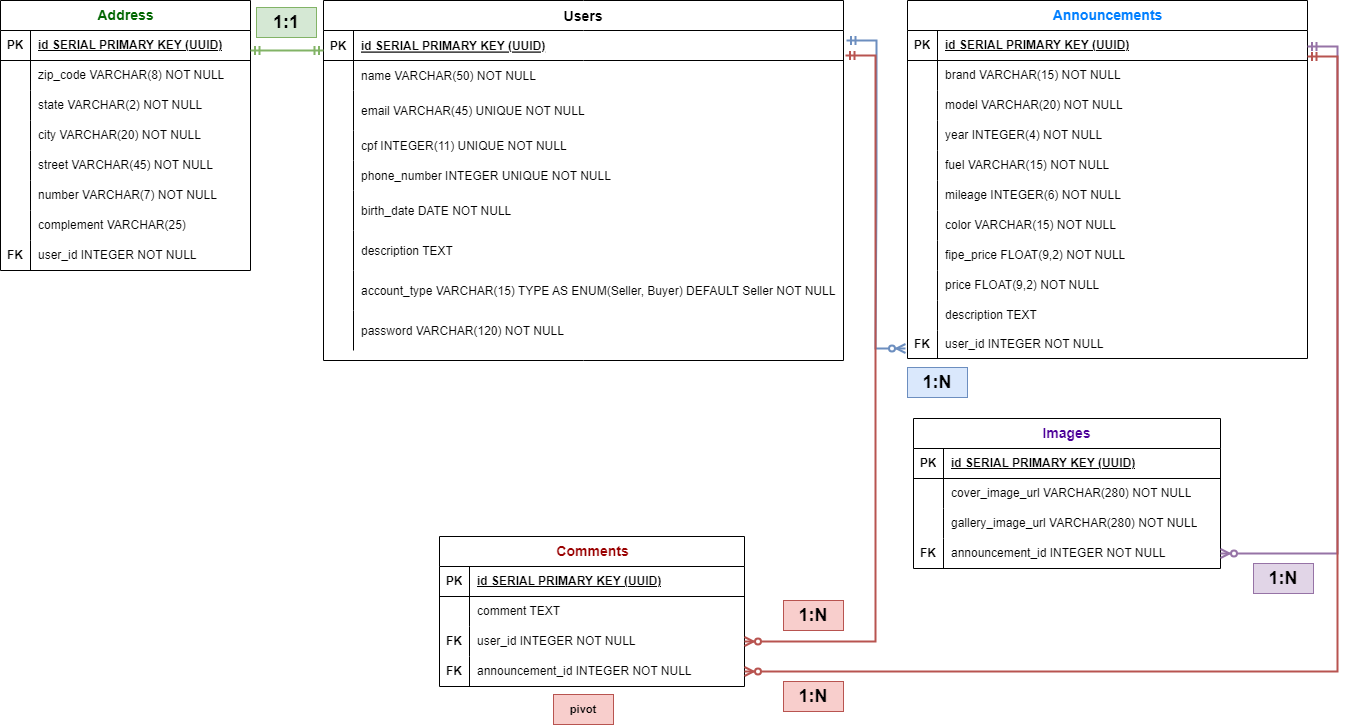
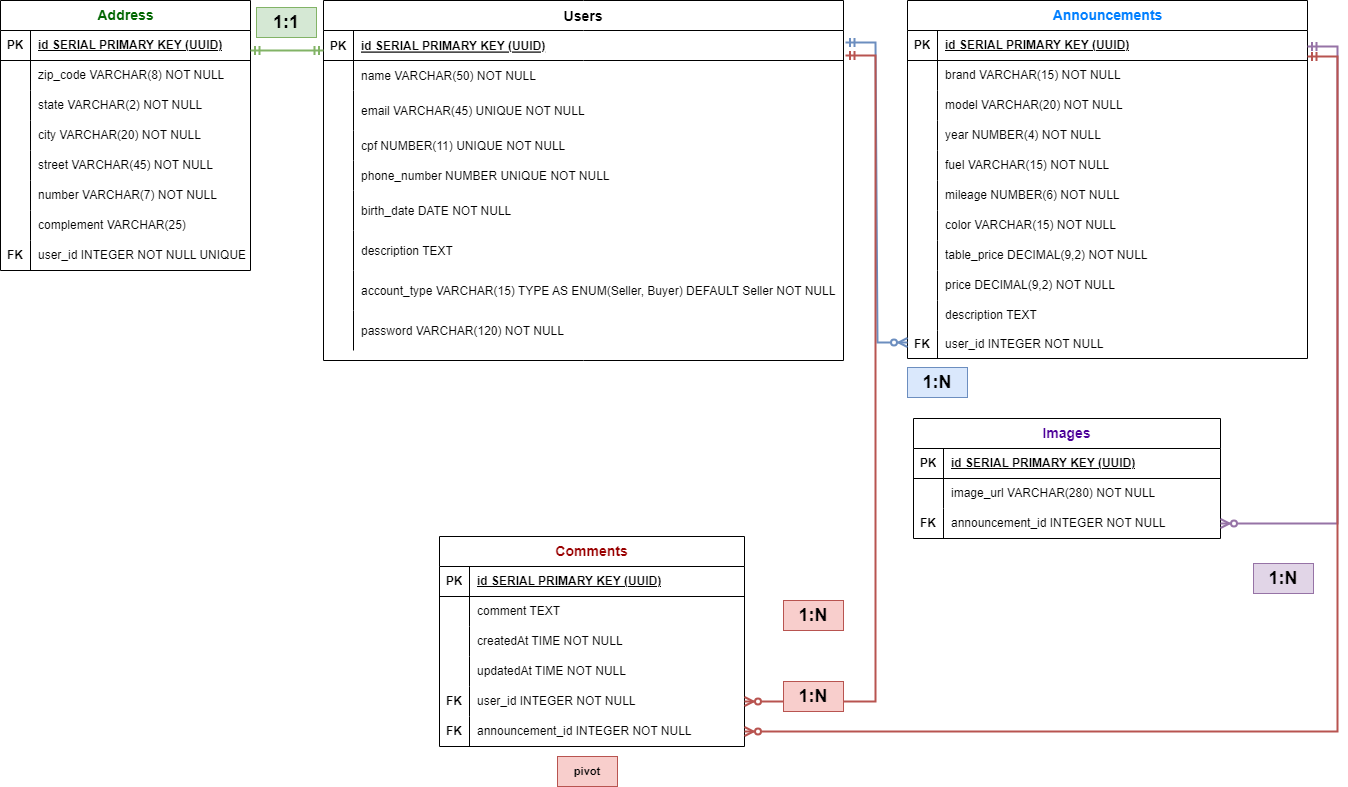
refactor: adjust images entity and der

diff --git a/src/schemas/announcement.schema.ts b/src/schemas/announcement.schema.ts
@@ -1,0 +1,30 @@
+import { z } from 'zod';
+import { userSchema } from './user.schema';
+
+export const announcementSchema = z.object({
+  id: z.number().int().positive(),
+  brand: z.string().max(15),
+  model: z.string().max(20),
+  year: z.number().int().positive().max(4),
+  fuel: z.string().max(15),
+  mileage: z.number().int().positive().max(6),
+  color: z.string().max(15),
+  table_price: z
+    .number()
+    .positive()
+    .default(() => 0)
+    .or(z.string()),
+  price: z
+    .number()
+    .positive()
+    .default(() => 0)
+    .or(z.string()),
+  description: z.string().nullable().nullish(),
+  user: userSchema,
+});
+
+export const announcementCreateSchema = z.object({
+  user_id: z.number().int().positive(),
+});
+
+export const announcementReadSchema = announcementCreateSchema.array();

diff --git a/src/schemas/user.schema.ts b/src/schemas/user.schema.ts
@@ -1,0 +1,23 @@
+import { z } from 'zod';
+
+export const userSchema = z.object({
+  id: z.number().int().positive(),
+  name: z.string().max(50),
+  email: z.string().max(45).email(),
+  cpf: z.number().int().positive().max(11),
+  phone_number: z.number().int().positive(),
+  birth_date: z.string(),
+  description: z.string().nullable().nullish(),
+  account_type: z.string().max(15),
+  password: z.string().max(120),
+});
+
+export const userCreateSchema = userSchema.omit({
+  id: true,
+});
+
+export const userReturnSchema = userSchema.omit({ password: true });
+
+export const userReadSchema = userReturnSchema.array();
+
+// export const userUpdateSchema = userCreateSchema.omit({}).partial();

diff --git a/src/entities/comments.entity.ts b/src/entities/comments.entity.ts
@@ -1,4 +1,4 @@
-import { Column, Entity, ManyToOne, PrimaryGeneratedColumn } from 'typeorm';
+import { Column, CreateDateColumn, Entity, ManyToOne, PrimaryGeneratedColumn, UpdateDateColumn } from 'typeorm';
 import User from './users.entity';
 import Announcement from './announcements.entity';
 
@@ -10,6 +10,12 @@ class Comment {
 
   @Column({ type: 'text', nullable: true })
   comment: string | undefined | null;
+
+  @CreateDateColumn({ type: 'time' })
+  createdAt: string;
+
+  @UpdateDateColumn({ type: 'time' })
+  updatedAt: string;
 
   // Relacionamento N:1 com user (FK da relação):
   @ManyToOne(() => User, (user) => user.comment)

diff --git a/src/entities/users.entity.ts b/src/entities/users.entity.ts
@@ -15,7 +15,7 @@ class User {
   @Column({ type: 'varchar', length: 45, unique: true })
   email: string;
 
-  @Column({ type: 'integer', length: 11 })
+  @Column({ type: 'integer' })
   cpf: number;
 
   @Column({ type: 'integer', unique: true })
@@ -27,7 +27,7 @@ class User {
   @Column({ type: 'text', nullable: true })
   description: string | undefined | null;
 
-  @Column({ type: 'varchar', length: '15', default: 'Seller' })
+  @Column({ type: 'varchar', length: '15', enum: 'Seller, Buyer', default: 'Seller' })
   account_type: string;
 
   @Column({ type: 'varchar', length: 120 })

diff --git a/src/schemas/address.schema.ts b/src/schemas/address.schema.ts
@@ -1,0 +1,15 @@
+import { z } from 'zod';
+
+export const userAddressSchema = z.object({
+  id: z.number().int().positive(),
+  zip_code: z.string().max(8),
+  state: z.string().max(2),
+  city: z.string().max(20),
+  street: z.string().max(45),
+  number: z.string().max(7),
+  complement: z.string().max(25).nullish().nullable(),
+});
+
+export const userAddressCreateSchema = userAddressSchema.omit({
+  id: true,
+});

diff --git a/src/entities/announcements.entity.ts b/src/entities/announcements.entity.ts
@@ -14,13 +14,13 @@ class Announcement {
   @Column({ type: 'varchar', length: '20' })
   model: string;
 
-  @Column({ type: 'integer', length: '4' })
+  @Column({ type: 'integer' })
   year: number;
 
   @Column({ type: 'varchar', length: '15' })
   fuel: string;
 
-  @Column({ type: 'integer', length: '6' })
+  @Column({ type: 'integer' })
   mileage: number;
 
   @Column({ type: 'varchar', length: '15' })

diff --git a/src/entities/images.entity.ts b/src/entities/images.entity.ts
@@ -7,10 +7,7 @@ class Image {
   id: number;
 
   @Column({ type: 'varchar', length: '280' })
-  cover_image_url: string;
-
-  @Column({ type: 'varchar', length: '280' })
-  gallery_image_url: string;
+  image_url: string;
 
   // Relacionamento N:1 com announcement (FK da relação):
   @ManyToOne(() => Announcement, (announcement) => announcement.image)

diff --git a/src/schemas/comment.ts b/src/schemas/comment.ts
@@ -1,0 +1,14 @@
+import { z } from 'zod';
+
+export const commentSchema = z.object({
+  id: z.number().int().positive(),
+  comment: z.string().nullable().nullish(),
+  createdAt: z.string(),
+  updatedAt: z.string(),
+});
+
+export const commentCreateSchema = commentSchema.omit({
+  id: true,
+  createdAt: true,
+  updatedAt: true,
+});

diff --git a/src/schemas/session.schema.ts b/src/schemas/session.schema.ts
@@ -1,0 +1,6 @@
+import { z } from 'zod';
+
+export const sessionLoginCreateSchema = z.object({
+  email: z.string().max(45).email(),
+  password: z.string().max(120),
+});

diff --git a/src/schemas/image.schema.ts b/src/schemas/image.schema.ts
@@ -1,0 +1,6 @@
+import { z } from 'zod';
+
+export const imageSchema = z.object({
+  id: z.number().int().positive(),
+  image_url: z.string().max(280),
+});
